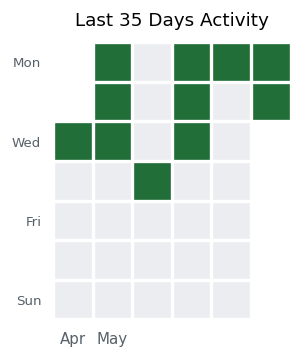
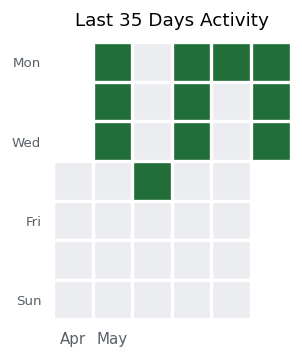
Lab Entry: 2026-05-27

Changed region(s): [[0.8344, 0.338, 0.9834, 0.4609], [0.1788, 0.338, 0.3278, 0.4609]]

diff --git a/README.md b/README.md
@@ -1,7 +1,7 @@
-# 🏃 平均週 2.3 回でつーがく中！
+# 🏃 平均週 2.4 回でつーがく中！
 <p align="center">
   <img src="./monthly_report.png" alt="Attendance Calendar">
 </p>
 
 ___
-*最終更新: 2026-05-26*
+*最終更新: 2026-05-27*
